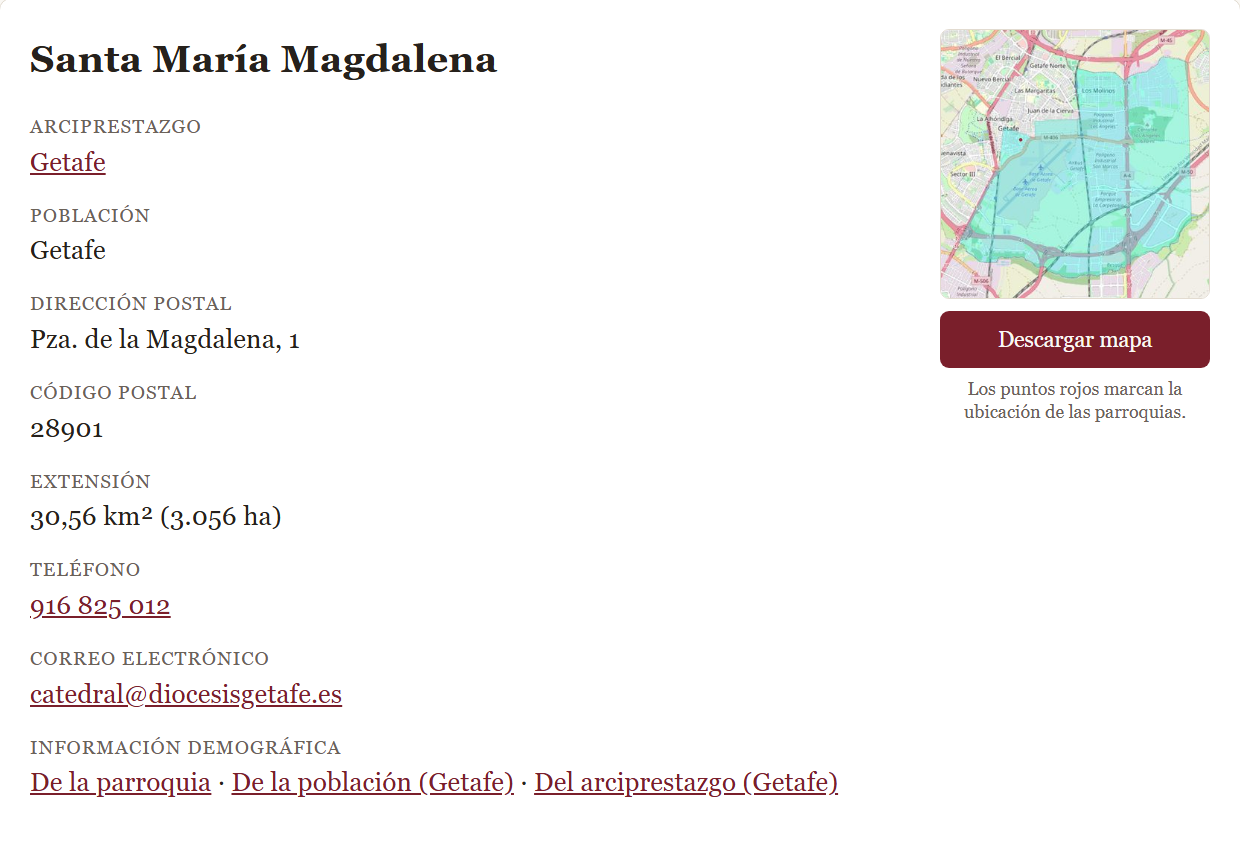
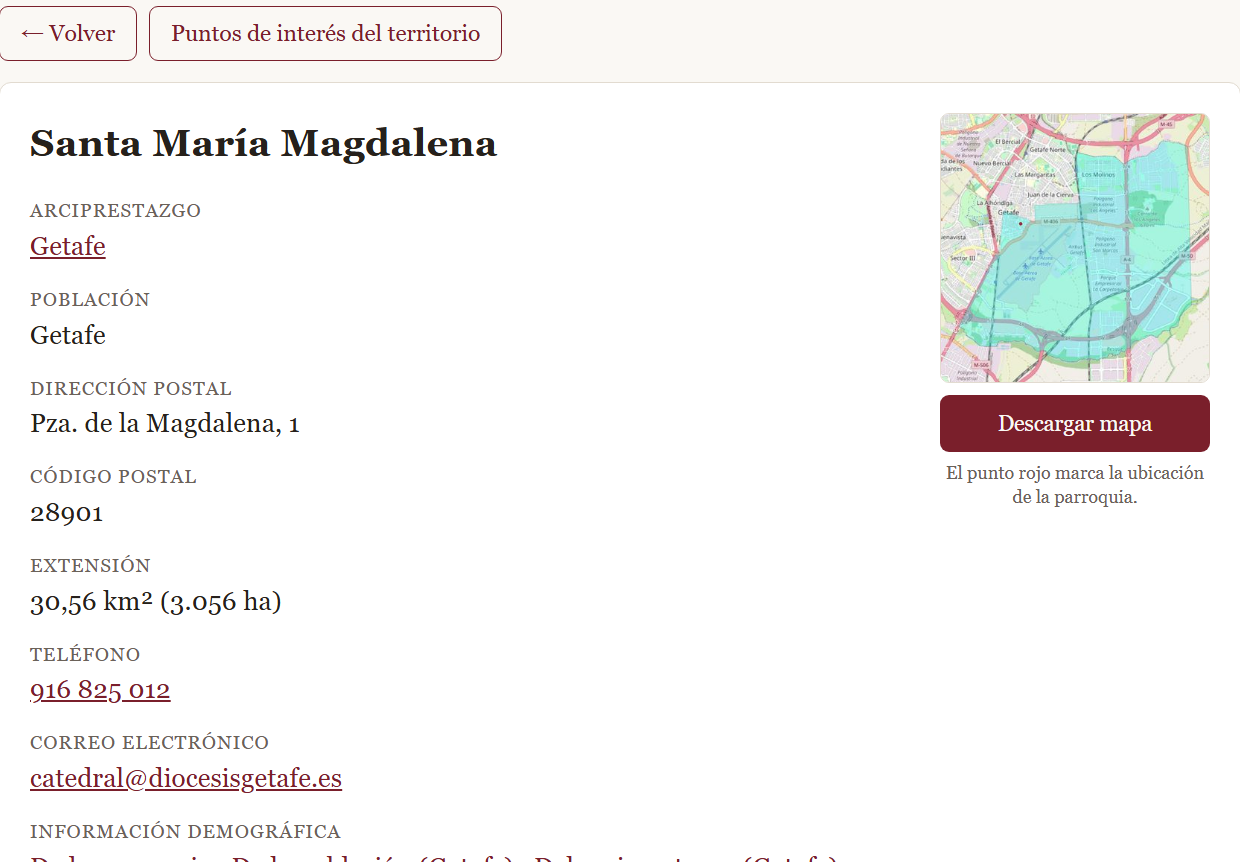
Presentación: puntos de interés y «La parroquia en una hoja»
La versión web de la presentación explica, en la sección 1, los puntos de
interés del territorio de cada parroquia y «La parroquia en una hoja», con
capturas nuevas (s1-puntos, s1-hoja) y la de la ficha rehecha (s1-ficha).

diff --git a/presentacion/index.html b/presentacion/index.html
@@ -5,7 +5,7 @@
 <meta name="viewport" content="width=device-width, initial-scale=1">
 <title>Presentación del proyecto · Geoestadística de la Diócesis de Getafe</title>
 <meta name="description" content="Qué es el sitio Geoestadística de la Diócesis de Getafe, sus objetivos, cómo se ha elaborado y qué contiene cada sección.">
-<link rel="stylesheet" href="../assets/estilo.css?v=cf5eae6c">
+<link rel="stylesheet" href="../assets/estilo.css?v=356bf9c7">
 <style>
 .pres p { margin: 0 0 10px; }
 .pres h2 { margin: 30px 0 10px; font-size: 1.45rem; line-height: 1.25; color: var(--acento); }
@@ -200,6 +200,9 @@ arciprestazgo pertenece ese domicilio.</li>
 <li><strong>Ficha de cada parroquia:</strong> dirección, teléfono, correo, extensión, mapa de su territorio y texto de
 los límites según su decreto.</li>
 <li><strong>Mapa del atlas</strong> de cada parroquia, que se puede descargar.</li>
+<li><strong>Puntos de interés del territorio</strong> de cada parroquia: entidades religiosas no católicas y centros
+educativos, en un mapa y en una lista.</li>
+<li><strong>La parroquia en una hoja:</strong> resumen de cada parroquia para imprimir o guardar como PDF en A4.</li>
 <li><strong>Mapa de cada arciprestazgo</strong> preparado para imprimir en tamaño A3.</li>
 </ul>
 </div>
@@ -208,6 +211,33 @@ los límites según su decreto.</li>
 <figure><a href="img/s1-ficha.png"><img src="img/s1-ficha.png" alt="Ficha de una parroquia"></a><figcaption>Ficha de una parroquia.</figcaption></figure>
 <figure><a href="img/s1-a3.png"><img src="img/s1-a3.png" alt="Mapa de un arciprestazgo para imprimir"></a><figcaption>Mapa del arciprestazgo de Getafe
 para imprimir en A3.</figcaption></figure>
+</div>
+<div class="dos ancha-der">
+<div>
+<h3>Puntos de interés del territorio</h3>
+<p>Desde la ficha de cada parroquia, el botón «Puntos de interés del territorio» abre una página con un selector
+para elegir el tipo de puntos (entidades religiosas no católicas o centros educativos), un mapa del territorio
+parroquial con esos puntos y la lista de los que están dentro de él. El punto rojo marca la ubicación de la
+parroquia.</p>
+<p>Las entidades religiosas proceden del Registro de Entidades Religiosas del Ministerio de la Presidencia, Justicia
+y Relaciones con las Cortes, y los centros educativos, del registro de centros educativos de la Comunidad de Madrid
+(solo los que figuran de alta).</p>
+</div>
+<figure><a href="img/s1-puntos.png"><img src="img/s1-puntos.png" alt="Puntos de interés del territorio de una parroquia"></a>
+<figcaption>Puntos de interés del territorio de una parroquia.</figcaption></figure>
+</div>
+<div class="dos ancha-izq">
+<figure><a href="img/s1-hoja.png"><img src="img/s1-hoja.png" alt="Resumen de una parroquia en una hoja A4"></a>
+<figcaption>«La parroquia en una hoja».</figcaption></figure>
+<div>
+<h3>La parroquia en una hoja</h3>
+<p>Cada parroquia tiene un resumen preparado para imprimir o guardar como PDF en una hoja A4 vertical: el mapa de
+su territorio, sus datos básicos, cuatro cifras (habitantes, edad media, hogares y renta), la pirámide de edades,
+doce indicadores comparados con su arciprestazgo y con la diócesis y los desarrollos urbanísticos previstos en su
+territorio.</p>
+<p>Al pie lleva las fuentes, la fecha de la delimitación y una dirección corta de la ficha. Se abre desde la ficha
+de la parroquia y desde su ficha de «Información demográfica».</p>
+</div>
 </div>
 <h3>Parroquias y extensión de cada arciprestazgo</h3>
 <div class="barras" style="--c:var(--acento);--et:12em">
@@ -457,7 +487,7 @@ Investigaciones Sociológicas.</p>
 <div class="tabla-pres"><table class="resumen">
 <thead><tr><th>Sección</th><th>Contenido</th><th>Estado</th></tr></thead>
 <tbody>
-<tr><td>1. Arciprestazgos y parroquias</td><td>Mapa, buscador de direcciones, 127 fichas y mapas para imprimir</td><td>Publicada</td></tr>
+<tr><td>1. Arciprestazgos y parroquias</td><td>Mapa, buscador de direcciones, 127 fichas con sus puntos de interés, la parroquia en una hoja y mapas para imprimir</td><td>Publicada</td></tr>
 <tr><td>2. Información demográfica</td><td>Datos del INE en cuatro niveles, tablas comparativas, mapa temático, descarga y verificador de datos</td><td>Publicada</td></tr>
 <tr><td>3. Previsión de desarrollos urbanísticos</td><td>35 desarrollos con 49.456 viviendas previstas</td><td>Publicada</td></tr>
 <tr><td>4. Anuario</td><td>Sacramentos y actividad parroquial</td><td>En preparación</td></tr>
